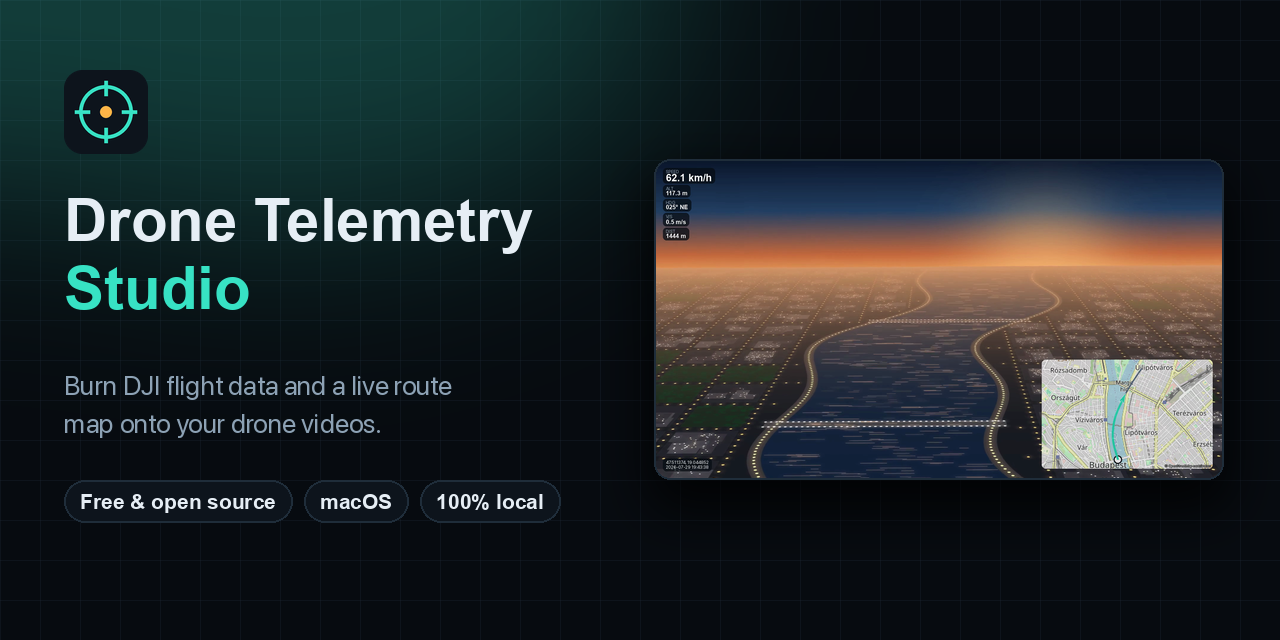
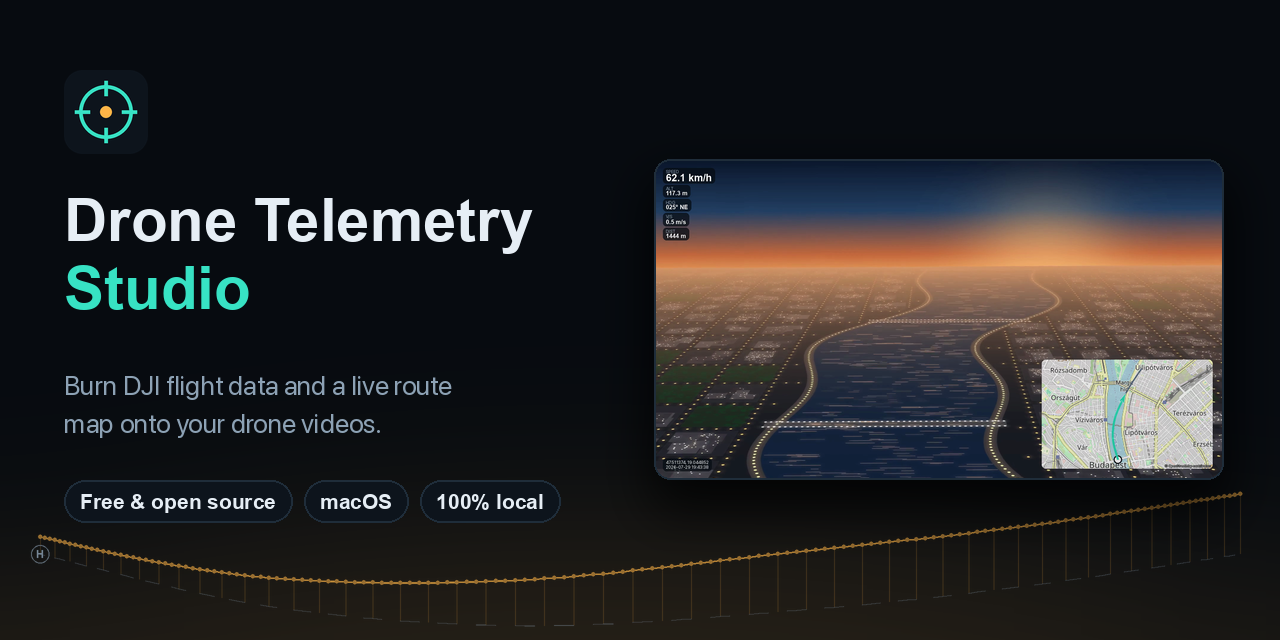
Replace the grid backdrop with the showcase flight's trace
The site hero and the social preview card drew a generic square grid with a
teal glow. They now draw the showcase flight itself the way a flight log
would: dashed ground track, the drone's path at its real altitude above it,
drop lines between the two, a home point and T+/altitude marks. The SVG and
the card are generated from the same telemetry as the demo video.

diff --git a/site/index.html b/site/index.html
@@ -55,14 +55,16 @@
   .hero { position: relative; overflow: hidden; padding: 84px 0 56px; text-align: center; }
   .hero::before {
     content: ""; position: absolute; inset: 0; pointer-events: none;
+    /* The showcase flight as a flight log would draw it: ground track, altitude, drop lines. */
     background:
-      radial-gradient(60% 50% at 50% 0%, color-mix(in srgb, var(--accent) 22%, transparent), transparent 70%),
-      linear-gradient(var(--line) 1px, transparent 1px) 0 0 / 48px 48px,
-      linear-gradient(90deg, var(--line) 1px, transparent 1px) 0 0 / 48px 48px;
-    mask-image: radial-gradient(70% 70% at 50% 20%, #000 30%, transparent 80%);
-    opacity: .55;
+      url("flight-trace.svg") 50% 270px / 100% auto no-repeat,
+      radial-gradient(70% 45% at 50% 62%, color-mix(in srgb, var(--accent-2) 9%, transparent), transparent 70%);
+    -webkit-mask-image: linear-gradient(90deg, #000 0%, #0008 30%, #0003 50%, #0008 70%, #000 100%);
+    mask-image: linear-gradient(90deg, #000 0%, #0008 30%, #0003 50%, #0008 70%, #000 100%);
+    opacity: .8;
   }
   .hero > * { position: relative; }
+  @media (max-width: 860px) { .hero::before { background-image: none, radial-gradient(70% 45% at 50% 62%, color-mix(in srgb, var(--accent-2) 9%, transparent), transparent 70%); } }
   .pill { display: inline-flex; gap: 8px; align-items: center; padding: 6px 14px; border: 1px solid var(--line);
           border-radius: 999px; font-size: 13px; color: var(--muted); background: var(--bg-2); }
   .pill b { color: var(--accent); font-weight: 600; }

diff --git a/scripts/generate_brand_assets.py b/scripts/generate_brand_assets.py
@@ -1,4 +1,9 @@
-"""Draws the logo and the GitHub social preview card into docs/images.
+"""Draws the logo, the social preview card and the website's flight-trace backdrop.
+
+The backdrop is not decoration for its own sake: it is the showcase flight itself
+(scripts/generate_showcase.py), drawn the way a flight log would show it. The dashed
+line is the ground track, the amber line is the drone at its real altitude above it,
+and the drop lines connect the two.
 
 Run after scripts/generate_showcase.py, which produces hud-preview.png:
 
@@ -9,9 +14,12 @@ from __future__ import annotations
 
 from pathlib import Path
 
+import math
+
 from PIL import Image, ImageDraw, ImageFilter
 
 from drone_telemetry_studio.overlay.renderer import _font
+from generate_showcase import DURATION_S, WAYPOINTS, _altitude, _progress, _route
 
 ROOT = Path(__file__).parents[1]
 IMAGES = ROOT / "docs/images"
@@ -43,17 +51,115 @@ def draw_mark(size: int) -> Image.Image:
     return image.resize((size, size), Image.Resampling.LANCZOS)
 
 
+def flight_samples(step_s: float = 1.0) -> list[tuple[float, float, float, float]]:
+    """(t, along_m, across_m, altitude_m) of the showcase flight, start→end along +x."""
+    curve, cumulative = _route()
+    lat0 = math.radians(WAYPOINTS[0][0])
+    local = [((lon - curve[0][1]) * 111_320 * math.cos(lat0), (lat - curve[0][0]) * 111_320) for lat, lon in curve]
+    angle = math.atan2(local[-1][1], local[-1][0])
+    cos_a, sin_a = math.cos(-angle), math.sin(-angle)
+    total = cumulative[-1]
+    samples, index = [], 1
+    for k in range(int(DURATION_S / step_s) + 1):
+        t = k * step_s
+        d = _progress(t) * total
+        while index < len(cumulative) - 1 and cumulative[index] < d:
+            index += 1
+        f = (d - cumulative[index - 1]) / max(1e-9, cumulative[index] - cumulative[index - 1])
+        (ax, ay), (bx, by) = local[index - 1], local[index]
+        x, y = ax + (bx - ax) * f, ay + (by - ay) * f
+        samples.append((t, x * cos_a - y * sin_a, x * sin_a + y * cos_a, _altitude(t)))
+    return samples
+
+
+def trace_layout(width: float, margin: float, ground_y: float, lift: float, sag: float = 1.0):
+    """Maps flight samples to (t, ground_xy, air_xy, altitude) on a canvas of the given width.
+
+    The route is drawn at true scale along the flight; sag scales the sideways bend.
+    """
+    samples = flight_samples()
+    length = samples[-1][1]
+    scale = (width - 2 * margin) / length
+    points = []
+    for t, along, across, alt in samples:
+        gx = margin + along * scale
+        gy = ground_y + across * scale * sag
+        points.append((t, (gx, gy), (gx, gy - alt * lift), alt))
+    return points
+
+
+def flight_trace_svg(width: int = 1600, height: int = 520) -> str:
+    pts = trace_layout(width, margin=90, ground_y=280, lift=1.5)
+    fmt = lambda xy: f"{xy[0]:.1f},{xy[1]:.1f}"
+    ground = " ".join(fmt(g) for _, g, _, _ in pts)
+    air = " ".join(fmt(a) for _, _, a, _ in pts)
+    drops = "".join(
+        f'<line x1="{a[0]:.1f}" y1="{a[1]:.1f}" x2="{g[0]:.1f}" y2="{g[1]:.1f}"/>' for t, g, a, _ in pts if t % 3 == 0
+    )
+    dots = "".join(f'<circle cx="{a[0]:.1f}" cy="{a[1]:.1f}" r="1.7"/>' for _, _, a, _ in pts)
+    labels = []
+    for t, g, a, alt in pts:
+        if t and t % 30 == 0:
+            labels.append(
+                f'<line x1="{a[0]:.1f}" y1="{a[1] - 8:.1f}" x2="{a[0]:.1f}" y2="{a[1] - 30:.1f}" class="tick"/>'
+                f'<text x="{a[0] + 6:.1f}" y="{a[1] - 22:.1f}">T+{int(t) // 60:02d}:{int(t) % 60:02d}</text>'
+                f'<text x="{a[0] + 6:.1f}" y="{a[1] - 9:.1f}" class="alt">{alt:.0f} m</text>'
+            )
+    (_, home, _, _), (_, _, last, _) = pts[0], pts[-1]
+    lat, lon = WAYPOINTS[0]
+    return f"""<svg xmlns="http://www.w3.org/2000/svg" viewBox="0 0 {width} {height}" preserveAspectRatio="xMidYMax slice">
+<!-- Generated by scripts/generate_brand_assets.py from the showcase flight. -->
+<style>
+text {{ font: 500 12px "JetBrains Mono", ui-monospace, Menlo, monospace; fill: #8da2b5; }}
+text.alt {{ fill: #ffb547; }}
+.tick {{ stroke: #8da2b5; stroke-opacity: .5; }}
+</style>
+<polyline points="{ground}" fill="none" stroke="#8da2b5" stroke-opacity=".35" stroke-width="1.2" stroke-dasharray="2 6"/>
+<g stroke="#ffb547" stroke-opacity=".16" stroke-width="1">{drops}</g>
+<polyline points="{air}" fill="none" stroke="#ffb547" stroke-opacity=".7" stroke-width="1.6"/>
+<g fill="#ffb547" fill-opacity=".55">{dots}</g>
+{"".join(labels)}
+<circle cx="{home[0]:.1f}" cy="{home[1]:.1f}" r="9" fill="none" stroke="#8da2b5" stroke-opacity=".6"/>
+<text x="{home[0]:.1f}" y="{home[1] + 4:.1f}" text-anchor="middle">H</text>
+<text x="{home[0] - 4:.1f}" y="{home[1] + 30:.1f}">{lat:.4f}° N  {lon:.4f}° E</text>
+<circle cx="{last[0]:.1f}" cy="{last[1]:.1f}" r="5" fill="#ffb547"/>
+<circle cx="{last[0]:.1f}" cy="{last[1]:.1f}" r="12" fill="none" stroke="#ffb547" stroke-opacity=".5"/>
+</svg>
+"""
+
+
+def draw_trace(card: Image.Image, box: tuple[int, int, int, int]) -> None:
+    """The same flight trace as the website backdrop, rasterised into box."""
+    left, top, right, bottom = box
+    s = 2  # supersample
+    w, h = (right - left) * s, (bottom - top) * s
+    layer = Image.new("RGBA", (w, h), (0, 0, 0, 0))
+    draw = ImageDraw.Draw(layer)
+    pts = trace_layout(w, margin=40 * s, ground_y=h - 86 * s, lift=0.5 * s, sag=0.42)
+    for t, g, a, _ in pts:
+        if t % 3 == 0:
+            draw.line((*a, *g), fill=(*AMBER, 40), width=s)
+    for (_, g0, _, _), (t1, g1, _, _) in zip(pts, pts[1:]):
+        if int(t1) % 4 < 2:
+            draw.line((*g0, *g1), fill=(*MUTED, 90), width=s)
+    draw.line([a for _, _, a, _ in pts], fill=(*AMBER, 170), width=2 * s, joint="curve")
+    for _, _, (x, y), _ in pts:
+        draw.ellipse((x - 2 * s, y - 2 * s, x + 2 * s, y + 2 * s), fill=(*AMBER, 140))
+    hx, hy = pts[0][1]
+    draw.ellipse((hx - 9 * s, hy - 9 * s, hx + 9 * s, hy + 9 * s), outline=(*MUTED, 150), width=s)
+    draw.text((hx, hy), "H", font=_font(11 * s, bold=True), fill=(*MUTED, 200), anchor="mm")
+    layer = layer.resize((right - left, bottom - top), Image.Resampling.LANCZOS)
+    card.paste(layer, (left, top), layer)
+
+
 def social_preview(hud: Path) -> Image.Image:
     width, height = 1280, 640
     card = Image.new("RGB", (width, height), BG)
-    draw = ImageDraw.Draw(card, "RGBA")
-    for x in range(0, width, 40):
-        draw.line((x, 0, x, height), fill=(31, 45, 58, 70))
-    for y in range(0, height, 40):
-        draw.line((0, y, width, y), fill=(31, 45, 58, 70))
     glow = Image.new("RGBA", (width, height), (0, 0, 0, 0))
-    ImageDraw.Draw(glow).ellipse((-200, -380, 760, 300), fill=(*ACCENT, 60))
-    card.paste(glow.filter(ImageFilter.GaussianBlur(120)), (0, 0), glow.filter(ImageFilter.GaussianBlur(120)))
+    ImageDraw.Draw(glow).ellipse((-300, 470, 1500, 1000), fill=(*AMBER, 34))
+    glow = glow.filter(ImageFilter.GaussianBlur(110))
+    card.paste(glow, (0, 0), glow)
+    draw_trace(card, (0, 400, width, height))
 
     card.paste(draw_mark(84), (64, 70), draw_mark(84))
     draw = ImageDraw.Draw(card, "RGBA")
@@ -96,8 +202,9 @@ def main() -> None:
     IMAGES.mkdir(parents=True, exist_ok=True)
     draw_mark(256).save(IMAGES / "logo.png")
     social_preview(IMAGES / "hud-preview.png").save(IMAGES / "social-preview.png", optimize=True)
-    for name in ("logo.png", "social-preview.png"):
-        print(IMAGES / name)
+    (ROOT / "site/flight-trace.svg").write_text(flight_trace_svg(), encoding="utf-8")
+    for path in (IMAGES / "logo.png", IMAGES / "social-preview.png", ROOT / "site/flight-trace.svg"):
+        print(path)
 
 
 if __name__ == "__main__":

diff --git a/CHANGELOG.md b/CHANGELOG.md
@@ -9,6 +9,8 @@ All notable changes to this project are documented here. The format follows
 ### Changed
 - The showcase demo is now an animated, procedurally rendered dusk flyover that
   moves and climbs with the telemetry, instead of a static gradient.
+- The website hero and the social preview card draw the showcase flight's ground
+  track and altitude profile in place of a generic grid background.
 
 ## [0.2.0] – 2026-11-02
 
